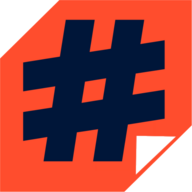
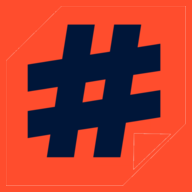
chore: refine PWA configuration and stabilize HMR
- Update short_name to 'Hash CV' in manifest.
- Implement WebSocket error suppression in index.html to handle HMR disconnects in cloud environments.
- Refresh PWA asset icons.

diff --git a/index.html b/index.html
@@ -3,6 +3,67 @@
   <head>
     <meta charset="UTF-8" />
     <meta name="viewport" content="width=device-width, initial-scale=1.0" />
+    <script>
+      // Gracefully handle HMR WebSocket in AI Studio cloud environment
+      (function() {
+        if (typeof window === 'undefined') return;
+
+        window.addEventListener('unhandledrejection', function(event) {
+          var msg = event && event.reason ? String(event.reason.message || event.reason) : '';
+          if (msg.includes('WebSocket closed without opened') || msg.includes('WebSocket')) {
+            event.preventDefault();
+            event.stopImmediatePropagation();
+            return true;
+          }
+        }, true);
+
+        window.addEventListener('error', function(event) {
+          var msg = event ? String(event.message || (event.error && event.error.message) || '') : '';
+          if (msg.includes('WebSocket closed without opened') || msg.includes('WebSocket')) {
+            event.preventDefault();
+            event.stopImmediatePropagation();
+            return true;
+          }
+        }, true);
+
+        var OrigWS = window.WebSocket;
+        if (OrigWS) {
+          window.WebSocket = function(url, protocols) {
+            var ws = protocols !== undefined ? new OrigWS(url, protocols) : new OrigWS(url);
+            var openCallbacks = [];
+            var origAddEventListener = ws.addEventListener.bind(ws);
+
+            ws.addEventListener = function(type, listener, options) {
+              if (type === 'open' && typeof listener === 'function') {
+                openCallbacks.push(listener);
+              }
+              if (type === 'close' && typeof listener === 'function') {
+                var wrappedClose = function(event) {
+                  if (openCallbacks.length > 0) {
+                    var cbs = openCallbacks.slice();
+                    openCallbacks = [];
+                    cbs.forEach(function(fn) {
+                      try { fn.call(ws, new Event('open')); } catch(e) {}
+                    });
+                  }
+                  try {
+                    return listener.apply(this, arguments);
+                  } catch (err) {}
+                };
+                return origAddEventListener(type, wrappedClose, options);
+              }
+              return origAddEventListener(type, listener, options);
+            };
+            return ws;
+          };
+          window.WebSocket.prototype = OrigWS.prototype;
+          window.WebSocket.CONNECTING = OrigWS.CONNECTING;
+          window.WebSocket.OPEN = OrigWS.OPEN;
+          window.WebSocket.CLOSING = OrigWS.CLOSING;
+          window.WebSocket.CLOSED = OrigWS.CLOSED;
+        }
+      })();
+    </script>
     <meta name="description" content="صانع سيرة ذاتية مجاني واحترافي متوافق 100% مع أنظمة ATS. أنشئ سيرتك الذاتية بالذكاء الاصطناعي مع تحميل فوري. Best ATS resume builder Arabic & CV builder Egypt." />
     <meta name="keywords" content="صانع سيرة ذاتية مجاني, ATS resume builder Arabic, CV builder Egypt, سيرة ذاتية ATS, إنشاء سيرة ذاتية بالعربي, نموذج سيرة ذاتية احترافي, AI resume builder Egypt, صانع CV مجاني مصر, فاحص توافق ATS" />
     <meta name="author" content="Hash Resume" />
@@ -31,7 +92,7 @@
     <meta name="mobile-web-app-capable" content="yes" />
     <meta name="apple-mobile-web-app-capable" content="yes" />
     <meta name="apple-mobile-web-app-status-bar-style" content="black-translucent" />
-    <meta name="apple-mobile-web-app-title" content="Hash Resume" />
+    <meta name="apple-mobile-web-app-title" content="Hash CV" />
     <link rel="manifest" href="/manifest.json" />
     <link rel="preconnect" href="https://fonts.googleapis.com">
     <link rel="preconnect" href="https://fonts.gstatic.com" crossorigin>

diff --git a/vite.config.ts b/vite.config.ts
@@ -17,7 +17,7 @@ export default defineConfig(({ mode }) => {
         manifest: {
           id: '/',
           name: 'Hash Resume | صانع السيرة الذاتية الذكي ATS',
-          short_name: 'Hash Resume',
+          short_name: 'Hash CV',
           description: 'منصة بناء سير ذاتية احترافية وذكية متوافقة 100% مع أنظمة فرز السير الذاتية ATS باللغتين العربية والإنجليزية',
           theme_color: '#001639',
           background_color: '#001639',
